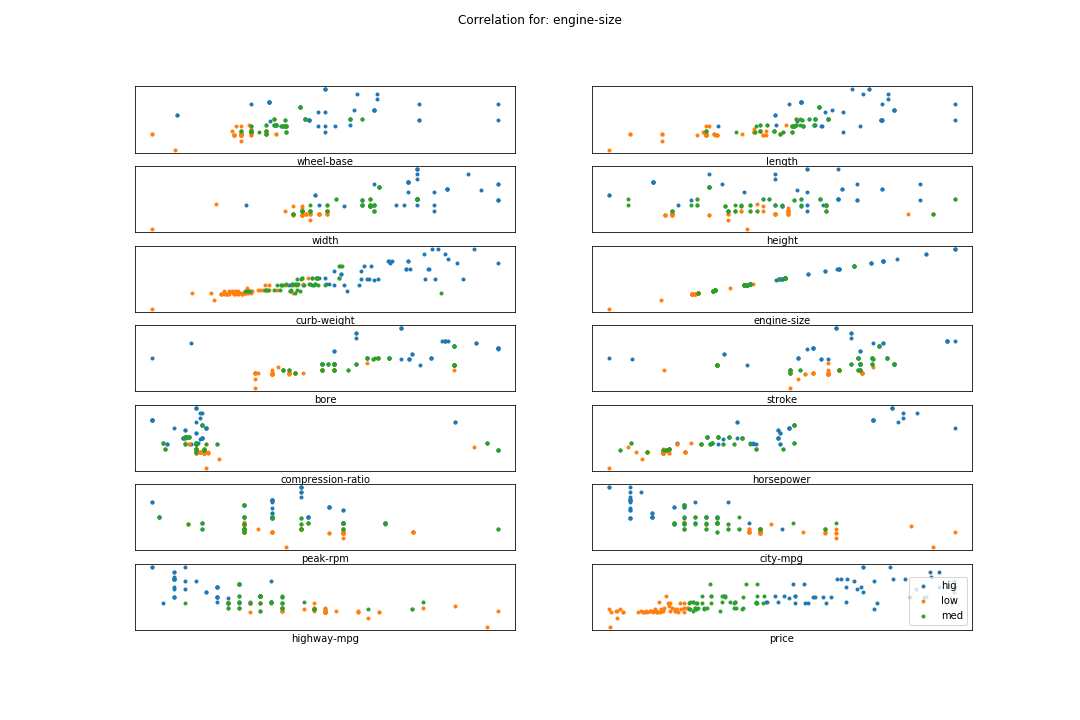
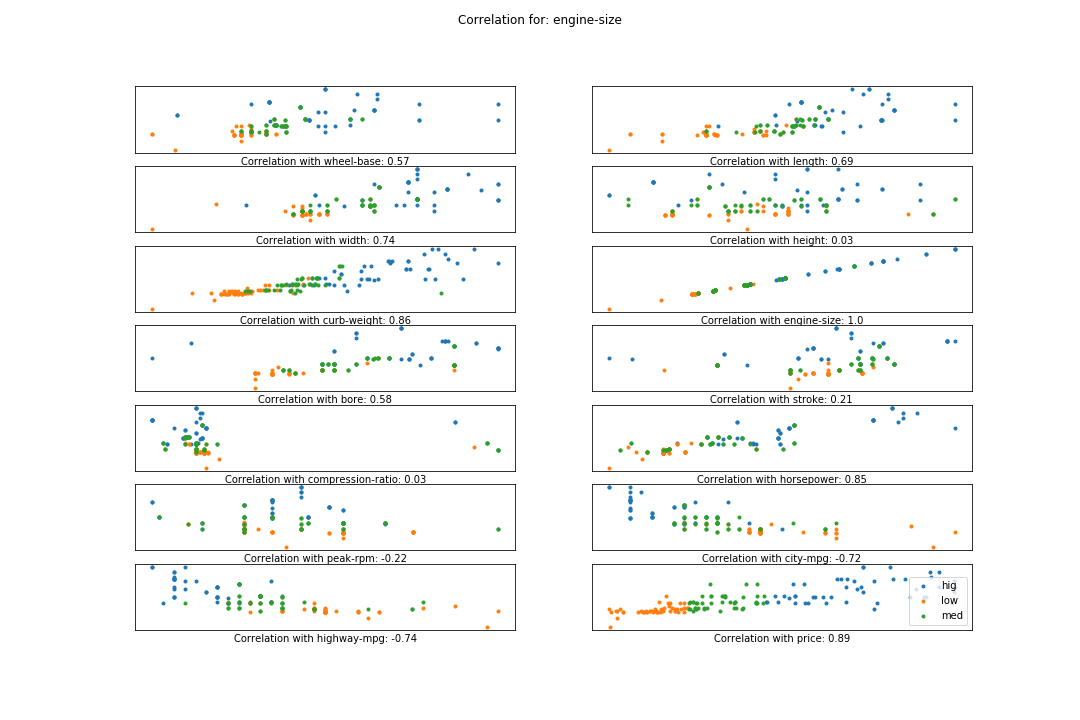
Correlation on scatter plots

diff --git a/Scripts/PCA.py b/Scripts/PCA.py
@@ -4,7 +4,7 @@ from scipy.linalg import svd
 from scipy import stats
 import numpy as np
 
-GENERATE_PLOTS = False
+GENERATE_PLOTS = True
 
 priceArray = dOriginal["price"].values
 priceArray = np.sort(priceArray)
@@ -82,7 +82,7 @@ if GENERATE_PLOTS:
                 #print(m2)
                 #print(data.values[np.array(class_mask),m2])
                 plt.plot(scatterData.values[class_mask,m2], scatterData.values[class_mask,m1], '.')
-                plt.xlabel(scatterAttr[m2])
+                plt.xlabel("Correlation with "+ scatterAttr[m2]+ ": "+str(round(CorMatrix.iloc[m1][m2],2)))
                 plt.xticks([])
                 plt.yticks([])        
                 #ylim(0,X.max()*1.1)
